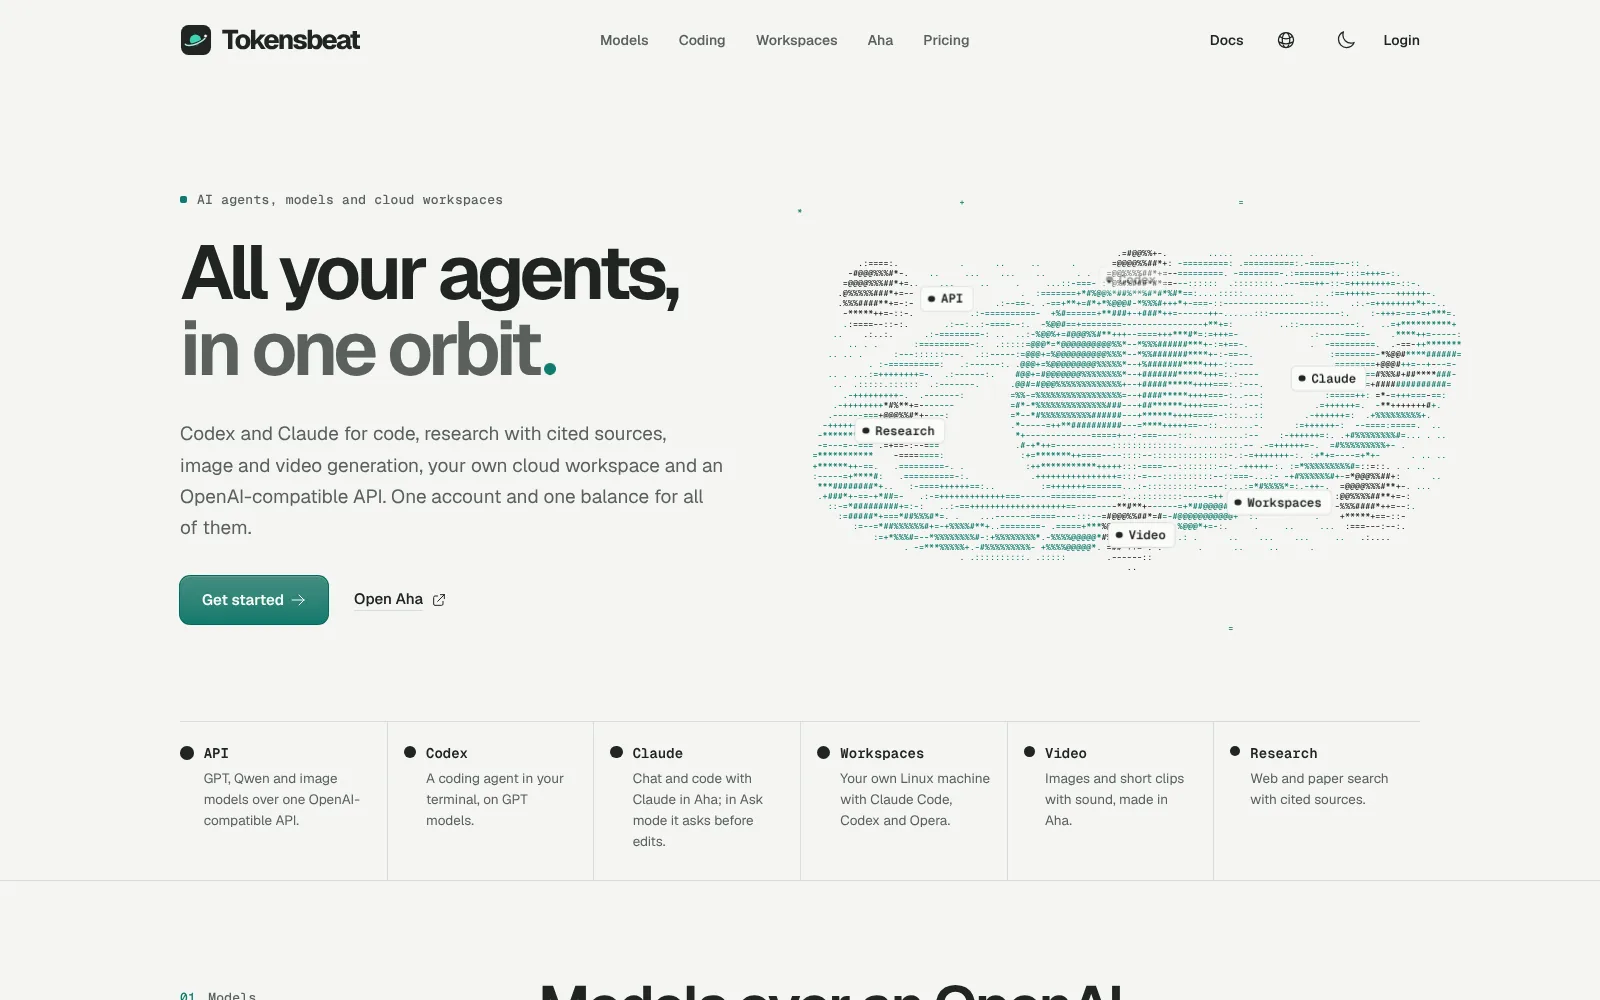
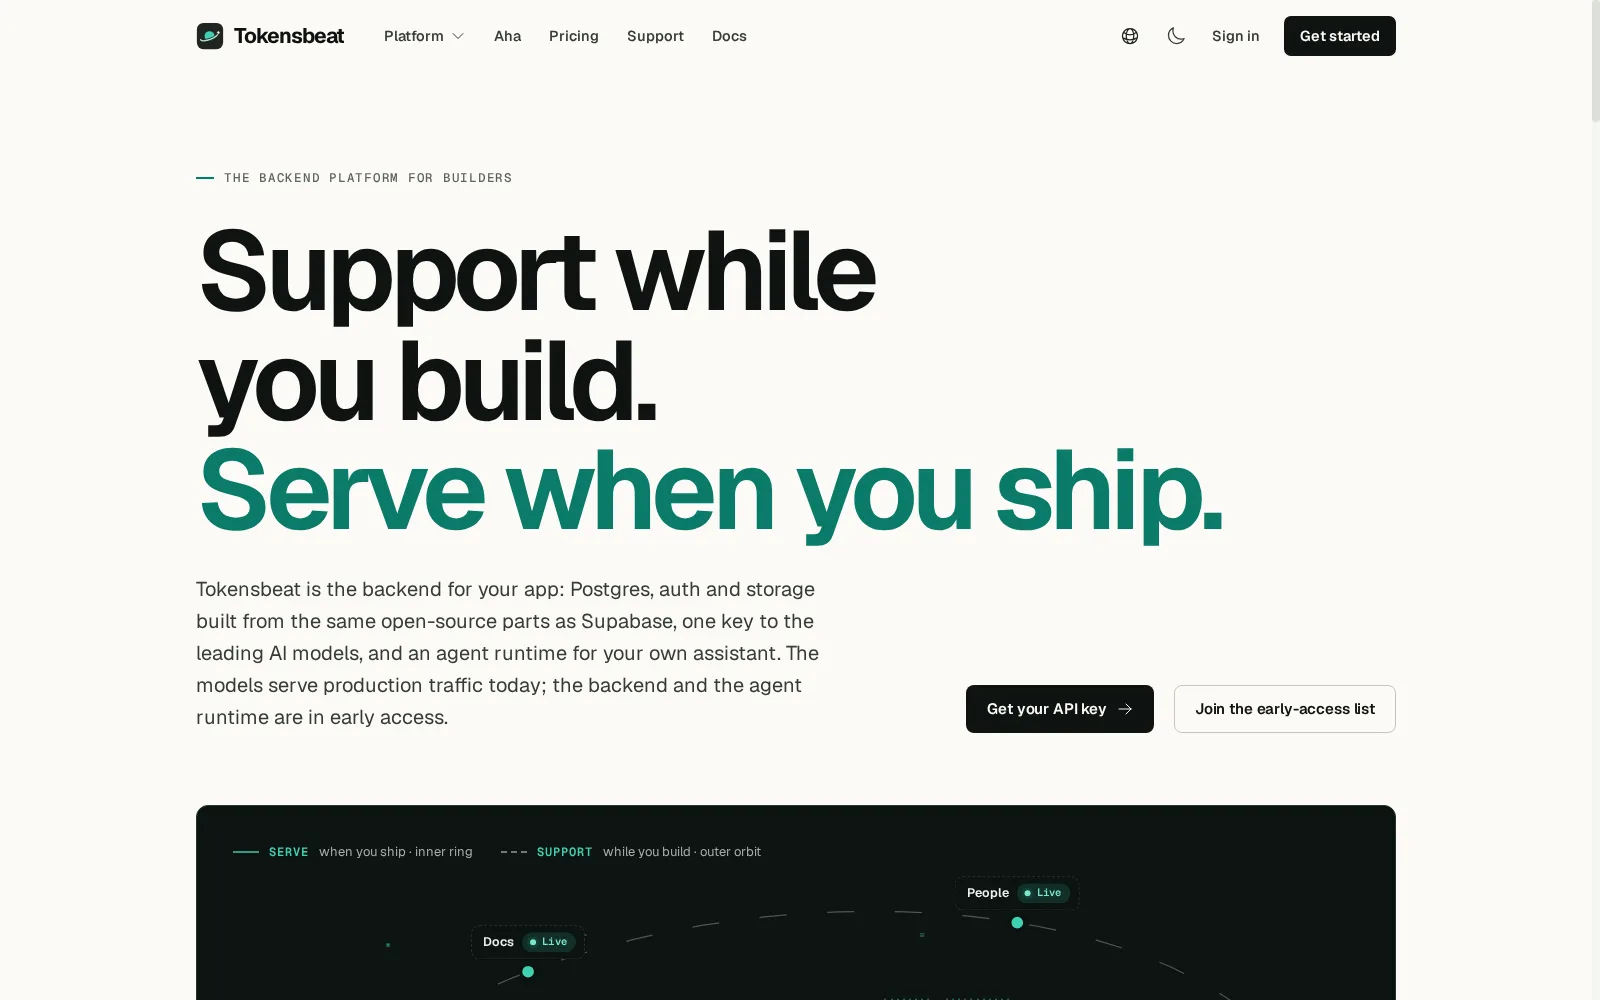
Tokensbeat: the new front page (Support while you build, Serve when you ship) and the token count to 30 October: 64.5 billion

diff --git a/src/components/Features.tsx b/src/components/Features.tsx
@@ -42,16 +42,17 @@ export function Features() {
           ["Role", "Architect and operator"],
           [
             "What",
-            "One gateway to many models, sold two ways: Aha, an agent app, for people; and the platform itself for apps, which move in as tenants",
+            "The backend platform for builders: one key to the leading models, live today, with Postgres, auth, storage and an agent runtime in early access. Aha, an agent app, is the way in for people",
           ],
         ]}
-        lede="“All your agents, in one orbit,” says the storefront. Underneath is the drawing I keep coming back to: one gateway to many models, sold two ways. People get Aha, an agent app. App builders get the platform itself, and move in as tenants."
-        body="A tenant takes any of three pieces, never a bundle: a private gateway with its own console, users and prices, where Tokensbeat sees exactly one key; an agent instance on Pi, the runtime behind Aha, running the tenant's own agent; and, if it wants one, a managed backend. The first two tenants are the next two lines in this issue: WorkGo, whose agent is Obi, and InclusifAI, whose agent is Aria."
+        lede="“Support while you build. Serve when you ship.” says the front page, and draws it as two rings. Serve, the inner ring, is what your app runs on in production; Support, the outer orbit, is what helps you while you build. Underneath is the drawing I keep coming back to: one gateway to many models, and a backend built from open-source parts. People get Aha, an agent app. App builders get the platform itself, and move in as tenants."
+        body="Today the models are live, with one key, one wallet and billing; Postgres and auth, storage and realtime, and the agent runtime are in early access, and a guide for moving over from Supabase is coming. A tenant takes any of three pieces, never a bundle: a private gateway with its own console, users and prices, where Tokensbeat sees exactly one key; an agent instance on Pi, the runtime behind Aha, running the tenant's own agent; and, if it wants one, a managed backend. The first two tenants are the next two lines in this issue: WorkGo, whose agent is Obi, and InclusifAI, whose agent is Aria."
         built={[
           b("The foundation.", "A gateway in Go in front of Claude, OpenAI, Gemini, Grok, Kimi, DeepSeek, GLM and Qwen, and models on GPUs I run myself. One wallet, one console, and a public plaza of live health probes and prices."),
           b("Tenant instances.", "The same binary again, with its own database, white-label site, sign-in and staff gate, and exactly one key upstream. A tenant's users never appear in Tokensbeat's ledger, and a daily job reconciles the two."),
           b("Agents on Pi.", "Events, durable state, tools, skills and hosted apps. To the public it is Aha; for a tenant it runs that tenant's agent behind a flag, so going back is one setting."),
-          b("A backend to move into.", "Automation stands up Postgres, auth, a REST API, storage and realtime for each project, and trusts the tenant's own sign-in. Built and tested in the lab, not yet open."),
+          b("A backend to move into.", "Postgres, a REST API and sign-in for each project, with files and realtime beside the data, built from the same open-source parts as Supabase, and trusting the tenant's own sign-in. In early access."),
+          b("Support while you build.", "Docs and guides, people reached by ticket, a status page, and a cloud dev box for your agents, in beta. The front page counts what is live, in beta, in early access and still to come, and says which is which."),
           b("Moving house without dropping calls.", "In October the gateway and its database moved to Azure with 83 seconds of downtime, and Aha followed with 40. Every green commit now deploys itself, checks its health and rolls itself back if it must. Backups are hourly and encrypted, and a restore drill takes about two minutes."),
           b("The crew.", "Coding agents build it, one layer to a branch, and a second model reviews each layer before the next begins. I draw the plan and own the merges."),
         ]}
@@ -63,9 +64,9 @@ export function Features() {
             <Shot
               bar="tokensbeat.com"
               src="/assets/img/web-tokensbeat-home.webp"
-              alt="Tokensbeat home page: 'All your agents, in one orbit.' beside an ASCII-art orbit labelled API, Claude, Research, Workspaces and Video."
+              alt="Tokensbeat front page: 'Support while you build. Serve when you ship.' above a dark orbit diagram with an inner ring for Serve and an outer orbit for Support."
             >
-              tokensbeat.com, launch week. The storefront for people; the plan above is what apps move into.
+              tokensbeat.com, 30 October 2026. The front page now splits the platform into Serve and Support; the plan above is what apps move into.
             </Shot>
           </>
         }
